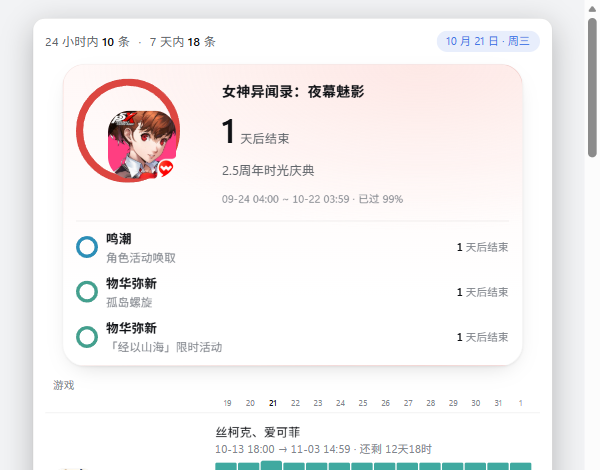
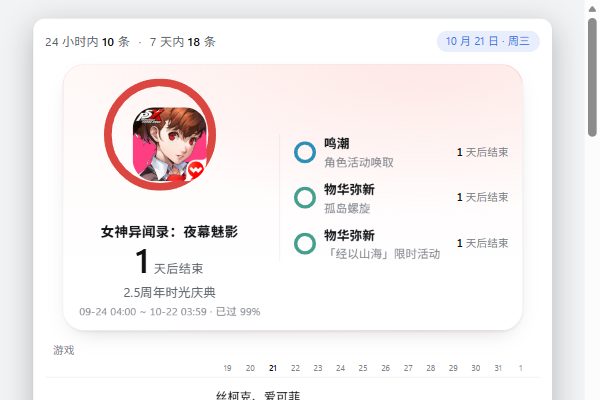
fix(panel): v0.2.15 留白卡改为「卡片整体左右分栏」（纠正 v0.2.14 方向错误）
v0.2.14 把「留白卡改左右」误解为**大卡内部**改左右（图标挪左、文字排右），方向错了。
本次按原意纠正：**左边是那张大的，右边是三条小的**。

**改动（仅外层排布，大卡内部布局不动）**
- `.gacha-cal-sched-slot`：`display:flex;column` → `display:grid`，
  `grid-template-columns: minmax(0,0.9fr) minmax(0,1.1fr)`，`column-gap:16px`
- `.gacha-cal-slot-cine`（大卡）固定左列；`.gacha-cal-slot-more`（接下来三条）改右列：
  上横线分隔 → 左竖线分隔（`border-top` 移除、`padding-left:14px`）
- 左列大环 132 → 112、图标 86 → 74，给右列三条留字数（右列 229px）

**实测**：卡片 460×267（原 401）；左列 188 / 右列 229；
右侧起点 217px > 左列右边界，左右不重叠；右侧首条游戏名未被省略号截断；
无元素超出卡片（唯一越界的是 marquee 内层 span，父级已裁切）。

**记录**：README_Dev 增加「一次改错」注记，PUBLISHING 把 0.2.14 标为方向错、由 0.2.15 取代。

全链通过；zip 19 条目 CRC 通过。

diff --git a/src/schedule/schedule.css b/src/schedule/schedule.css
@@ -680,65 +680,41 @@
 .gacha-cal-sched-trow--stacked .gacha-cal-sched-rest .gacha-cal-sched-tl i {
 	animation: none !important;
 }
-/* ── 留白卡：改成「左图标 / 右文字」的左右布局 ────────────────────────────
-   原版是上下结构：环+图标居中在上，游戏名 / 剩余天数 / 标题 / 档期依次居中排在下面。
-   左右布局把图标固定到左侧、四项文字右对齐排成四行，卡片更矮更宽，也更像"信息卡"。 */
-.gacha-cal-slot-slide {
+
+/* ── 留白卡：整体改左右分栏 ──────────────────────────────────────────────
+   原版是上下结构：上面一个大的主卡（进度环 + 图标 + 游戏名/剩余天数/标题/档期），
+   下面三条小的（接下来三项）。
+   改为**左右结构**：左边那个大的、右边那三条小的。
+   ⚠ 注意：主卡**内部**保持原样（环在上、文字居中在下），这里只改卡片的分栏。 */
+.gacha-cal-sched-slot {
 	display: grid;
-	grid-template-columns: auto minmax(0, 1fr);
-	grid-template-rows: auto auto auto auto;
-	column-gap: 14px;
+	grid-template-columns: minmax(0, 0.9fr) minmax(0, 1.1fr);
+	column-gap: 16px;
 	align-items: center;
-	justify-items: start;
 }
-/* 图标 + 进度环整体跨四行，垂直居中 */
-.gacha-cal-slot-ring {
+.gacha-cal-slot-cine {
 	grid-column: 1;
-	grid-row: 1 / span 4;
-	align-self: center;
+	min-width: 0;
 }
-/* 环稍微收小，给右侧文字留宽度 */
-.gacha-cal-slot-ring > svg {
-	width: 104px;
-	height: 104px;
-}
-.gacha-cal-slot-ic > img,
-.gacha-cal-slot-ic > span {
-	width: 68px !important;
-	height: 68px !important;
-}
-/* 右侧四行：全部左对齐 */
-.gacha-cal-slot-gn {
-	grid-column: 2;
-	grid-row: 1;
-	margin-top: 0;
-	width: 100%;
-	text-align: left;
-	font-size: 14px;
-}
-.gacha-cal-slot-days {
-	grid-column: 2;
-	grid-row: 2;
-	justify-content: flex-start;
-	margin-top: 3px;
-}
-.gacha-cal-slot-ttl {
-	grid-column: 2;
-	grid-row: 3;
-	width: 100%;
-	margin-top: 5px;
-	text-align: left;
-	white-space: normal;
-}
-.gacha-cal-slot-sub {
-	grid-column: 2;
-	grid-row: 4;
-	width: 100%;
-	margin-top: 3px;
-	text-align: left;
-	white-space: normal;
-}
-/* 后面那条"接下来三条"仍留在下方整行（它们是列表，不适合塞进右列） */
+/* 右侧三条：从"整行在下"改成"右列"，分隔线由上方横线改为左侧竖线 */
 .gacha-cal-slot-more {
-	margin-top: 10px;
+	grid-column: 2;
+	align-self: center;
+	margin-top: 0;
+	padding-top: 0;
+	padding-left: 14px;
+	border-top: none;
+	border-left: 1px solid color-mix(in oklab, var(--dsw-alias-label-primary, #1f2329) 8%, transparent);
+	gap: 10px;
+}
+
+/* 左右分栏下，左列的大环略收一档，右列三条能显示更多字 */
+.gacha-cal-sched-slot .gacha-cal-slot-ring > svg {
+	width: 112px;
+	height: 112px;
+}
+.gacha-cal-sched-slot .gacha-cal-slot-ic > img,
+.gacha-cal-sched-slot .gacha-cal-slot-ic > span {
+	width: 74px !important;
+	height: 74px !important;
 }

diff --git a/README_Dev.md b/README_Dev.md
@@ -172,8 +172,12 @@ npm run test:domains       # 测守卫自身：该失败时失败、该通过时
 `panel.js` 通过 `body.popup-host` 判断宿主；「近期」默认最多显示 **2 条**（`nearLimit: 2`，
 展开后仍可看全部、其余靠 4s 轮换）—— 实测 popup 首屏可见「概览 + 近期 2 条 + 2 个完整游戏行 + 底栏」。
 
-留白卡（`SlotCard`）的版式也改成了**左右结构**：进度环 + 图标在左、四行文字（游戏名 / 剩余天数 /
-标题 / 档期）在右，卡片高度 401 → 302px。
+留白卡（`SlotCard`）的版式改成**卡片整体左右分栏**：左边是那张大的（进度环 + 图标 +
+游戏名/剩余天数/标题/档期，内部布局不变），右边是「接下来三条」列表（原来是整行排在下方）。
+高度 401 → 267px，中间用竖分隔线。
+
+> ⚠ 记录一次改错：v0.2.14 先把它理解成"大卡内部改左右"（图标左、文字右），方向错了；
+> v0.2.15 纠正为"卡片分栏"。两者 CSS 都只动 `.gacha-cal-sched-slot` / `.gacha-cal-slot-more` 的外层排布。
 开启开关时 `background.js` 只切换 `chrome.action` 的 popup，不再打开标签页；关闭时恢复原 popup。
 
 > ⚠ **要改新面板，请先改上游插件再重新移植**，不要在 `schedule-view.js` 里直接改，

diff --git a/store/PUBLISHING.md b/store/PUBLISHING.md
@@ -262,7 +262,8 @@ Partner Center → **Analytics** 页有三个标签：`Weekly users` / `Installs
 | **0.2.11（探头回补）** | 恢复「可展开」虚影提示与滑动展开动画（保留层级/对齐修复） |
 | **0.2.12（去掉行首指示）** | 去掉每行「卡池/活动」指示，行高 93→75px |
 | **0.2.13（popup 化）** | 新面板改为工具栏 popup（520×600，内部滚动），不再开标签页 |
-| **0.2.14（密度微调）** | 近期默认最多 2 条；留白卡改左右布局（高 401→302） |
+| **0.2.14（密度微调）** | 近期默认最多 2 条；留白卡内部改左右（❌ 方向错，被 0.2.15 取代） |
+| **0.2.15（留白卡纠正）** | 留白卡改为**卡片整体左右分栏**：左大卡 / 右三条（高 267） |
 | 商店文案补更新 | ✅ **已过审生效**（zh 643 / en 1728 字符，已不再列举 Bestdori） |
 
 > 0.2.6 涉及**新增 3 个主机权限**（`gametora.com`、`gh-proxy.com`、

diff --git a/README.md b/README.md
@@ -102,7 +102,8 @@ Chrome / Edge 通用（Manifest V3）。
 - **顶部区域（可切换）**：设置页「顶部区域」可二选一 ——
   - **近期列表**（默认）：按紧迫度排序的在期条目，**默认最多显示 2 条**，
     每 4 秒轮换一批，可「展开全部」
-  - **留白卡**：当前最紧迫那一条的大卡片（**左图标 / 右文字**，另列后续几条）
+  - **留白卡**：当前最紧迫那一条的大卡片 —— **左边是大卡**（图标 + 剩余天数 + 标题 + 档期），
+    **右边是接下来三条**
 - **日程表**：每款游戏**两行**——第一行卡池、第二行活动，各自带起止时间、
   倒计时与 **14 天迷你进度条**；左侧游戏名跨两行
 - **失败横条**：某来源抓不到时集中在底部提示，可一键重试
